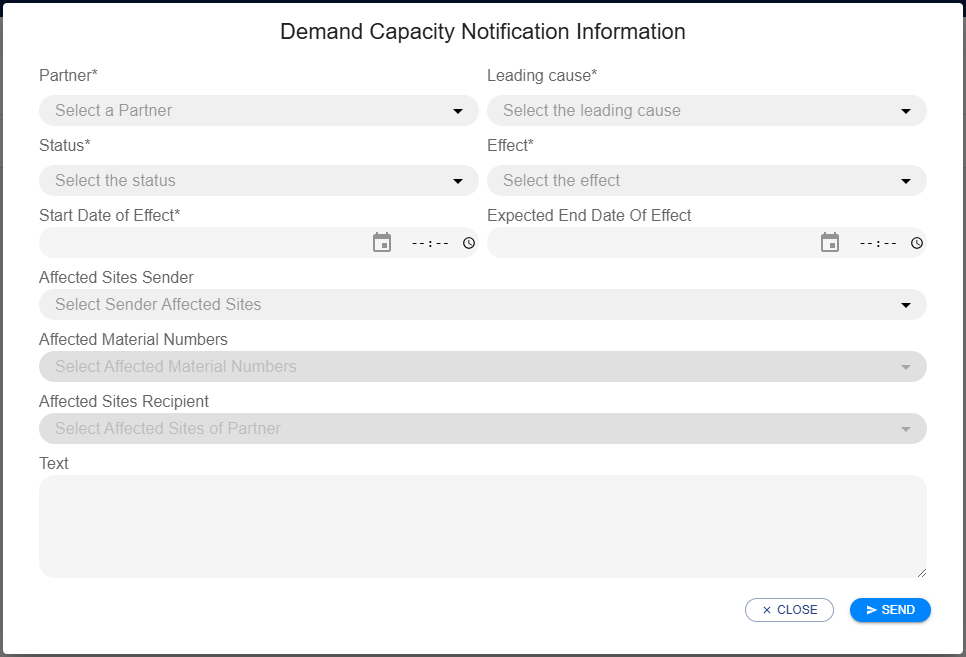
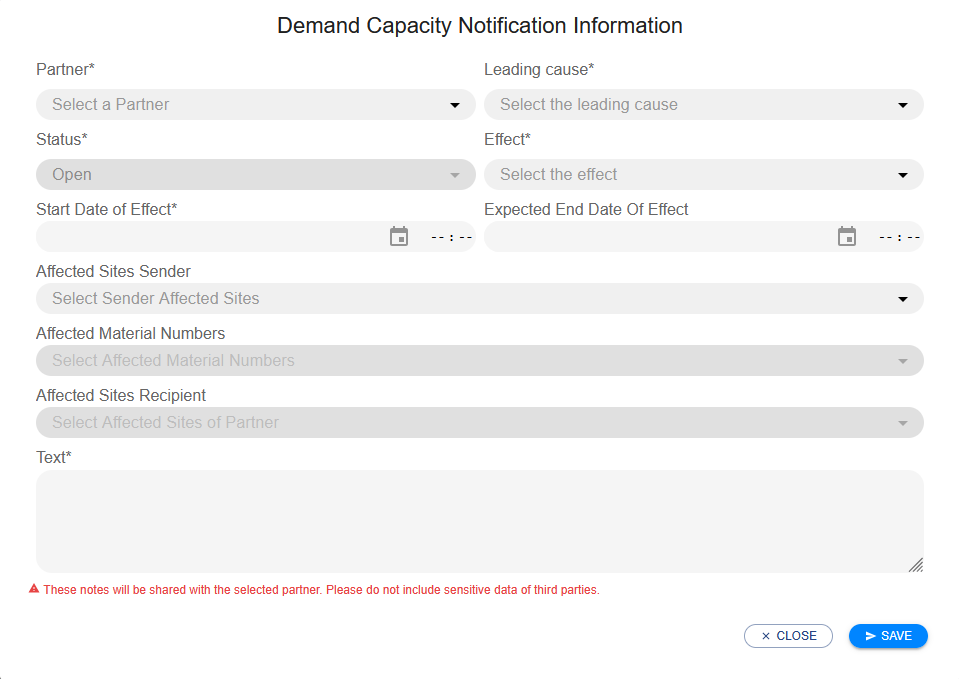
chore: update user guide for release 25.09

diff --git a/docs/user/User_Guide.md b/docs/user/User_Guide.md
@@ -187,28 +187,36 @@ A notification in the top right of the user's screen will inform them, if saving
 
 ## Demand and Capacity Notifications
 
-_DISCLAIMER: This feature has not yet been finished. Currently, users neither can't react to notifications nor can close notifications._
+A user may use the page to send notifications to partners or read received notifications.
 
-A user may use the page to send notifications to partners or read received notifications. One may choose the direction:
+- `OPEN` for grouped messages that have at least one message open
+- `RESOLVED` for grouped messages that have all been resolved
 
-- `OUTGOING` for messages sent to a partner
-- `INCOMING` for messages received from a partner
+The notifications are grouped into collapsible sections based on their source disruption. Each collapsible displays the cause as well as effect of the disruption and can be expanded to display the list of notifications in table form.
+The table displays `Outgoing` if the message was sent to a partner and `Incoming` if it was received from a partner.
+If the notification has been resolved, the row will be grayed out and the text column will additionally display the Resolution Message.
+
+### Notification View
 
 ![Overview of the notification view](img/notification_view.png)
 
 One may get further information by clicking on a notification in the list.
 
-![Detailed notification after double clicking the entry](img/notification_detail.png)
+### Notification Detail Modal
 
-When triggering the button "SEND NOTIFICATION", a modal dialog is opened allowing a user to compose the demand and capacity notification.
+![Detailed notification after clicking the entry](img/notification_detail.png)
+
+When triggering the button "NEW NOTIFICATION", a modal dialog is opened allowing a user to compose the demand and capacity notification. This creates a grouped section with the notification visible in the table.
+
+### Send notification modal
 
 ![Send notification modal](img/notification_send.png)
 
 After filling the mandatory data (see `*`), the user can send the notification:
 
 - Partner (supplier or customer relationship)
-- Leading Root Cause (one as defined by CX-0146 for demand and capacity notification)
-- Status (either `Open` or `Closed`, use close to close disruptions)
+- Leading Cause (one as defined by CX-0146 for demand and capacity notification)
+- Status (this field is automatically pre-selected with the `Open` option)
 - Effect (either `Increase` or `Decrease` of `Production` or `Demand`)
 - Start Date of Effect
 - (optional) End Date of Effect
@@ -216,6 +224,51 @@ After filling the mandatory data (see `*`), the user can send the notification:
 - (optional) Affected Material Numbers (only those applicable to the partner)
 - (optional) Affected Sites Recipient
 - (optional) Text
+
+If an Outgoing notification has the Open status the user can interact with it by either editing it or resolving it.
+When triggering the edit button the same modal is opened as for the New Notification, the fields pre-populated with existing data.
+
+### Edit notification modal
+
+![Edit notification modal](img/notification_edit.png)
+
+When the resolve button is triggered a modal dialog is opened allowing a user to write a resolution message and when saving will automatically change the status of the notification to `Resolved`.
+
+### Resolve notification modal
+
+![Resolve notification modal](img/notification_resolution.png)
+
+A user can also create a notification related to one the existing Open groups by triggering the "FORWARD" button. This opens the creation modal.
+The following fields are pre-selected and read only:
+
+- Leading cause (same as the related notifications)
+- Effect (same as the related notifications)
+- Status (this field is automatically pre-selected with the `Open` option)
+
+The Partner field only provides options for partners that aren't linked to any of the related or any of the existing outgoing notifications. This creates another entry in the existing table.
+
+### Forward notification modal
+
+![Forward notification modal](img/notification_forward.png)
+
+## Import
+
+An Admin can upload data in this page. Once the file is uploaded, all existing data for that type will be replaced by the newly uploaded data. They can click and download one of pre-existing template files listed on the page:
+
+- delivery-template.xlsx
+- demand-template.xlsx
+- production-template.xlsx
+- stock-template.xlsx
+
+Right now, only files of type xlsx are supported.
+
+### Import view
+
+![Overview of the Import view](img/import_view.png)
+
+After each file has been uploaded, the user is notified on whether the upload was successful and if not, what the potential issues could be.
+
+![Import file results example](img/import_result.png)
 
 ## Catalog
 

diff --git a/CHANGELOG.md b/CHANGELOG.md
@@ -25,6 +25,7 @@ The **need for configuration updates** is **marked bold**.
 Chore
 
 * Updated open API ([#929](https://github.com/eclipse-tractusx/puris/pull/929))
+* Updated User guide with the updated notification view and the new import page ([#933](https://github.com/eclipse-tractusx/puris/pull/933))
 
 ## v3.2.0
 
